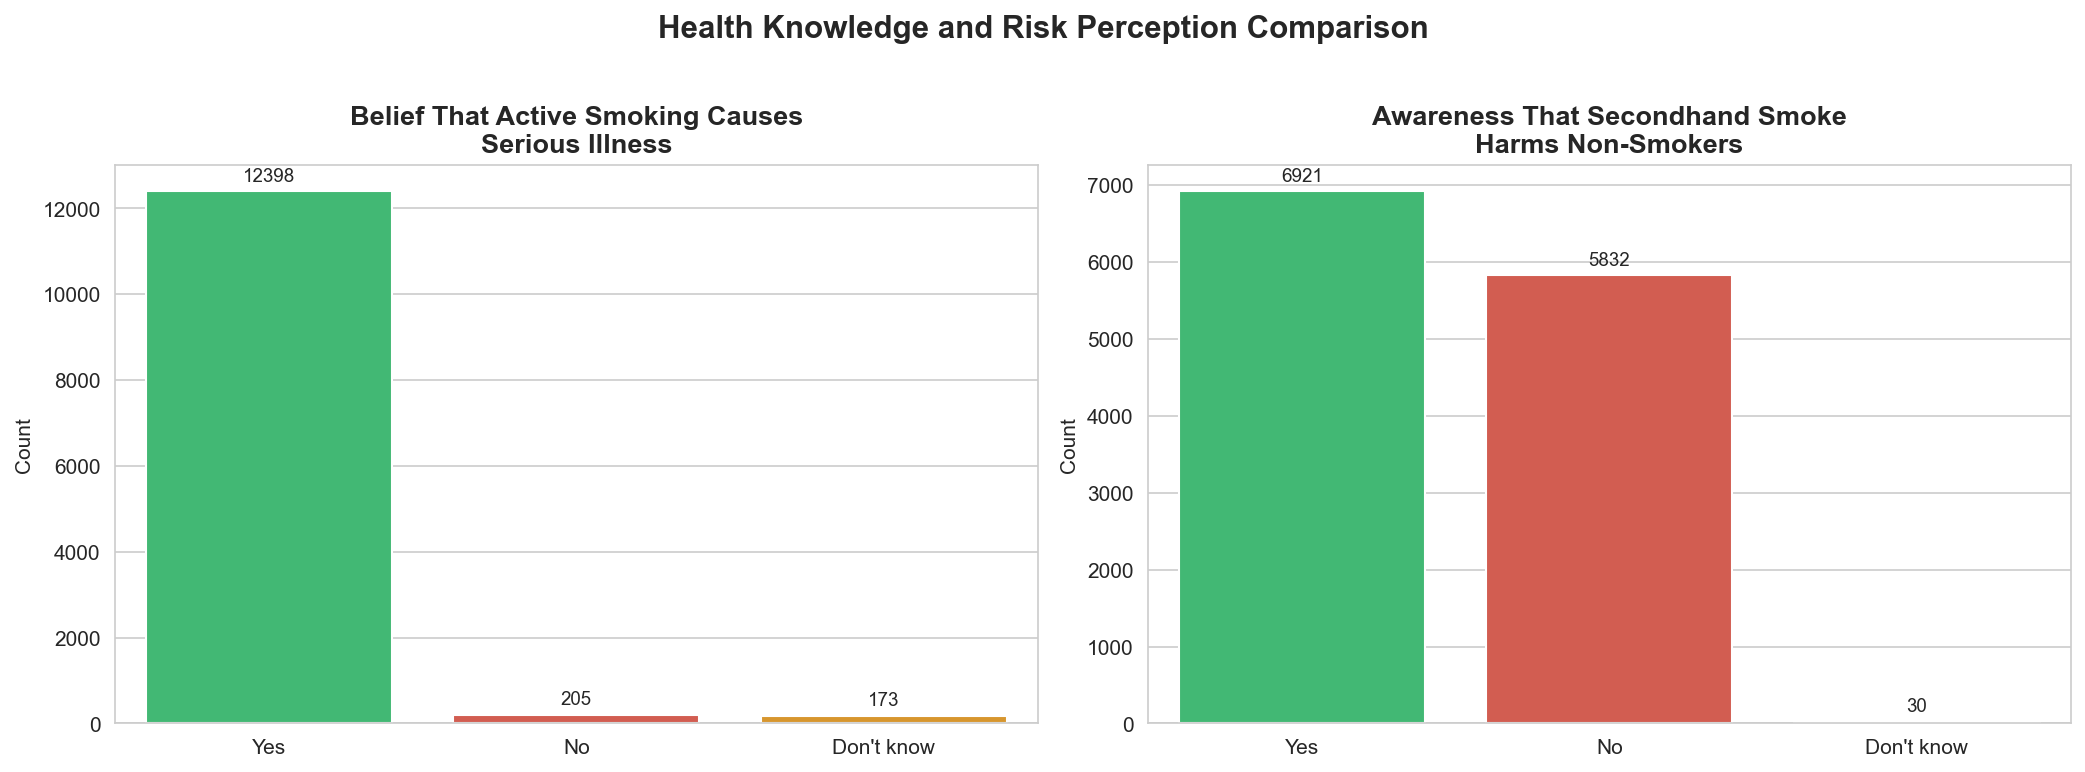
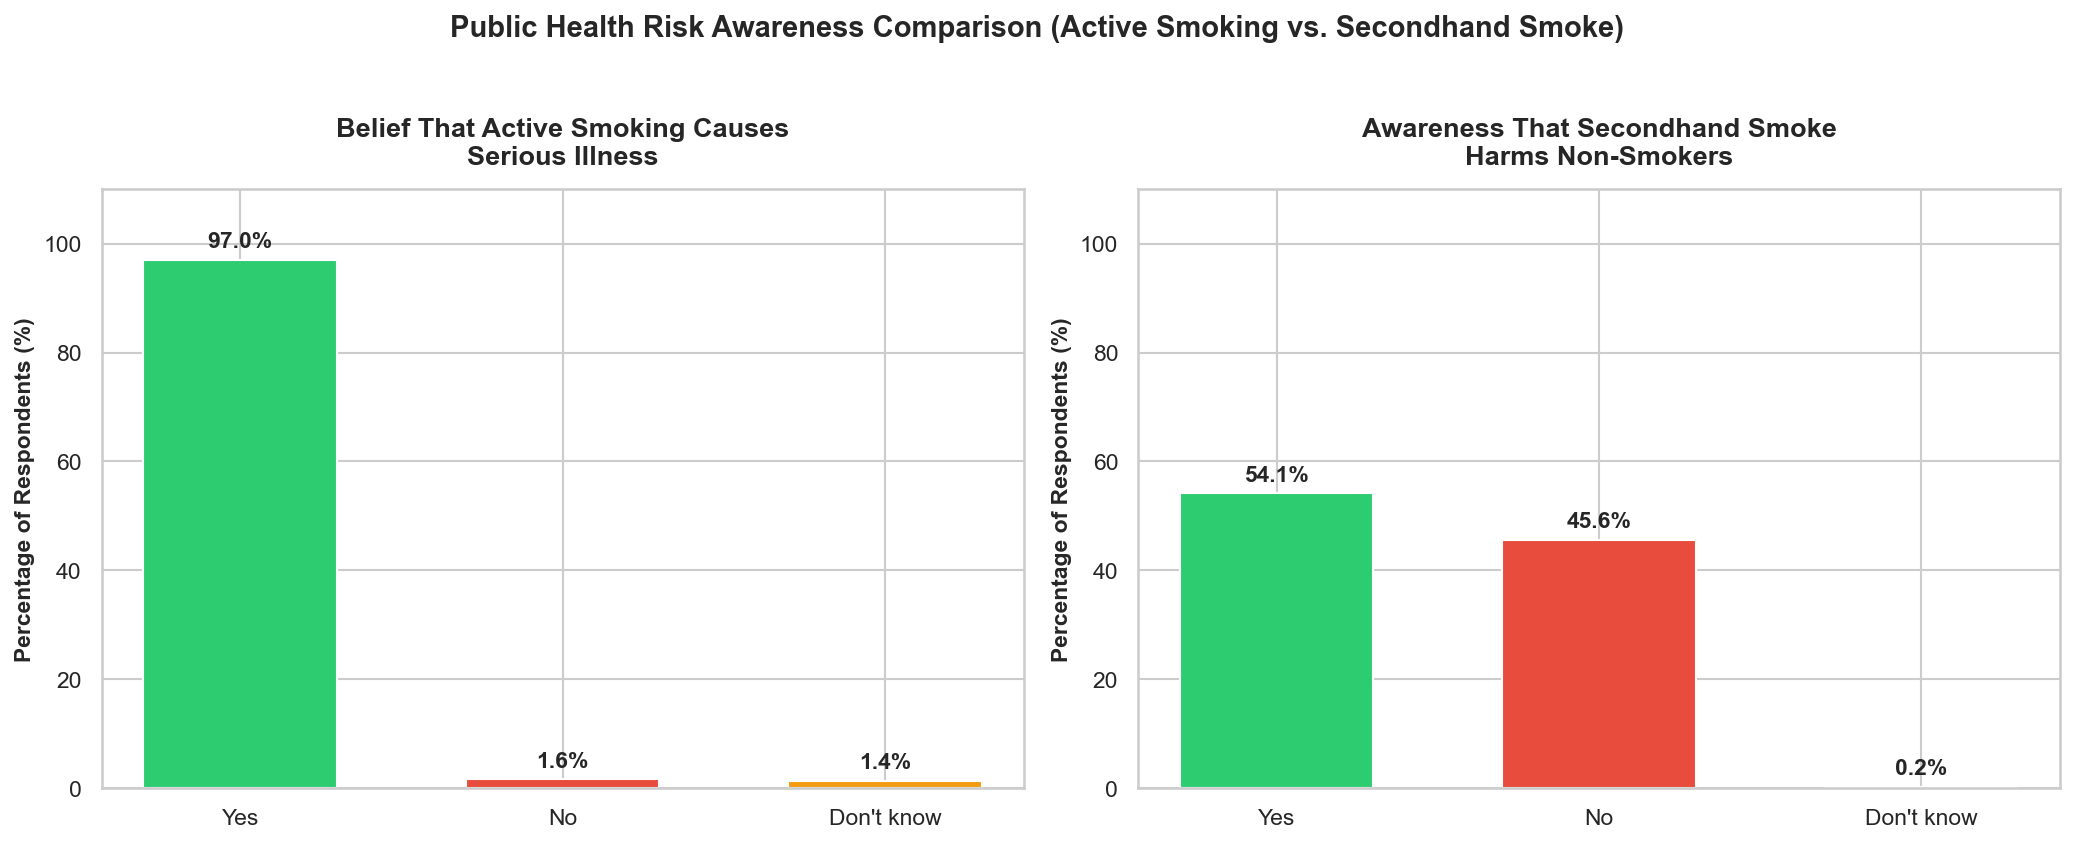
updated the slides for better engagement

diff --git a/GATS_2017_Presentation.html b/GATS_2017_Presentation.html
@@ -312,9 +312,9 @@ df['Tobacco_Type'] = np.select(conditions, choices, default='Non-User')
 <div class="col-text">
 <h3>Tobacco Prevalence</h3>
 <ul>
-<li>More adults use smokeless tobacco (zarda/sadapata) than cigarettes.</li>
-<li>We used survey weights to properly represent the whole population.</li>
-<li>Weighting the data gives us the true national picture.</li>
+<li><strong>~35.3% Total Use:</strong> 17.3% smokeless, 14.7% smokers, 3.3% dual users.</li>
+<li><strong>Smokeless Leads:</strong> Smokeless tobacco is more common than smoking.</li>
+<li><strong>Weighting Impact:</strong> Raw counts overestimate tobacco use (40.1% raw vs. 35.3% weighted).</li>
 </ul>
 </div>
 <div class="col-img">
@@ -363,7 +363,7 @@ df['Tobacco_Type'] = np.select(conditions, choices, default='Non-User')
 <div class="col-text">
 <h3>How Age Affects Habits</h3>
 <ul>
-<li>Smoking peaks in the 30s and 40s, then declines.</li>
+<li>Smoking probability rises slowly with age (reaching ~40%).</li>
 <li>Smokeless tobacco use increases steadily as people get older.</li>
 <li>Older adults have the highest smokeless tobacco usage.</li>
 </ul>
@@ -448,7 +448,7 @@ df['Tobacco_Type'] = np.select(conditions, choices, default='Non-User')
 <div class="col-text">
 <h3>How Variables Connect</h3>
 <ul>
-<li>Men are highly exposed to secondhand smoke at home.</li>
+<li>Men smoking at home drives high domestic SHS exposure (r = 0.75).</li>
 <li>Higher education is linked to lower smokeless tobacco use.</li>
 <li>Smoking and smokeless habits do not usually overlap.</li>
 </ul>
@@ -465,9 +465,9 @@ df['Tobacco_Type'] = np.select(conditions, choices, default='Non-User')
 <div class="col-text">
 <h3>What Do People Know?</h3>
 <ul>
-<li>Most people know smoking causes health issues.</li>
-<li>But many do not know it causes heart attacks or strokes.</li>
-<li>Awareness about secondhand smoke dangers is very low.</li>
+<li><strong>96.7% Active Awareness:</strong> Almost everyone knows smoking causes illness.</li>
+<li><strong>Only 54.1% SHS Awareness:</strong> 42.6% fewer people know secondhand smoke is dangerous.</li>
+<li><strong>Critical Knowledge Gap:</strong> Explains high rates of smoking in homes and vehicles.</li>
 </ul>
 </div>
 <div class="col-img">

diff --git a/GATS_2017_Presentation_Speech.md b/GATS_2017_Presentation_Speech.md
@@ -50,8 +50,11 @@ It uses plain, simple English without confusing jargon.
 ### Slide 4: Overall Tobacco Use
 **Time:** `1:40 - 2:15` (35s) | **Cumulative:** `2:15`
 
-> "Looking at the national picture, the biggest surprise is that more adults use smokeless tobacco—like zarda and sadapata—than cigarettes.
+> "This chart compares raw survey counts in grey against national survey-weighted estimates in red.
 >
+> Overall, about 35.3% of adults in Bangladesh use tobacco. Smokeless tobacco is the most common at 17.3%, followed by smokers at 14.7%, and dual users at 3.3%.
+>
+> Notice that raw unweighted data overestimates tobacco use at 40.1%, whereas applying survey weights gives the true national estimate of 35.3%."
 > To get these accurate national numbers, we used survey weights. This makes sure our sample properly represents the whole population of Bangladesh, rather than just the people surveyed."
 >
 > *[Transition:] "When we break this down by gender, a huge divide appears..."*  
@@ -92,7 +95,7 @@ It uses plain, simple English without confusing jargon.
 
 > "This graph shows how age affects habits. 
 >
-> Smoking peaks when people are in their 30s and 40s, and then it starts to decline. 
+> Smoking increases slowly with age, rising from about 15% in youth to around 40% in older age. 
 >
 > However, smokeless tobacco use increases steadily as people get older. Older adults have the highest smokeless tobacco usage, showing it's a deeply rooted cultural habit."
 >
@@ -158,7 +161,7 @@ It uses plain, simple English without confusing jargon.
 
 > "This matrix shows how variables connect. 
 >
-> First, men are highly exposed to secondhand smoke at home. Second, higher education is strongly linked to lower smokeless tobacco use. 
+> First, male smoking strongly correlates with homes having secondhand smoke (r = 0.75), which means men smoking indoors is what exposes women and children to passive smoke. Second, higher education is strongly linked to lower smokeless tobacco use. 
 >
 > Finally, smoking and smokeless habits do not usually overlap—people tend to do one or the other, not both."
 >
@@ -170,9 +173,11 @@ It uses plain, simple English without confusing jargon.
 ### Slide 13: Public Awareness & Knowledge Gaps
 **Time:** `6:55 - 7:30` (35s) | **Cumulative:** `7:30`
 
-> "While most people know that smoking causes general health issues, specific knowledge is lacking.
+> "This chart compares public awareness about active smoking versus secondhand smoke.
 >
-> Many people do not know that tobacco causes heart attacks or strokes. 
+> Awareness that active smoking causes serious illness is almost universal at 96.7%. 
+>
+> However, only 54.1% of people know that secondhand smoke harms non-smokers. That is a huge 42.6 percentage point gap, which directly explains why so many people still smoke inside homes and public transport."
 >
 > Even worse, awareness about the dangers of secondhand smoke is very low, which is probably why so many people still smoke indoors."
 >
